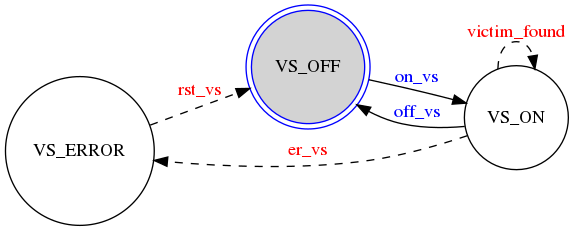
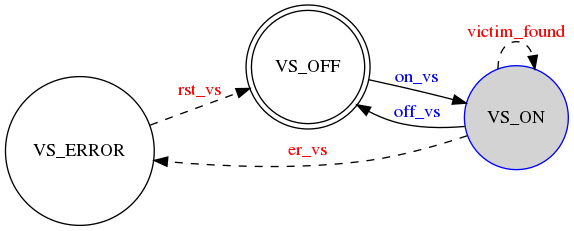
gas and victim interferance fixed

Changed region(s): [[0.4146, 0.0, 0.6516, 0.5758], [0.7997, 0.2727, 1.0, 0.7576]]

diff --git a/src/quadrotor/quadrotor_control_system/src/maneuvers.py b/src/quadrotor/quadrotor_control_system/src/maneuvers.py
@@ -33,8 +33,9 @@ from hector_moveit_exploration.msg import ExecuteDroneExplorationAction, Execute
 from hector_uav_msgs.srv import EnableMotors, EnableMotorsRequest
 
 # For teleoperation
-from sensor_msgs.msg import Joy
+from sensor_msgs.msg import Joy, Range
 from nav_msgs.msg import Odometry
+
 
 ########################################################################
 class Maneuver(object):
@@ -44,6 +45,11 @@ class Maneuver(object):
         self.suspending = False   
         self.trajectory_client = SimpleActionClient("approach_server", ExecuteDroneApproachAction)
         self.trajectory_client.wait_for_server()
+
+        # Subscribe to sonar_height
+        rospy.Subscriber("sonar_height", Range, self.sonar_callback, queue_size=10)
+        self.sonar_me = Condition()
+        self.current_height = None
 
         self.pub = rospy.Publisher("/{}/maneuvers/out".format(name), events_message, queue_size=10)         # Publisher object
         self.msg = events_message()                                                                         # Message object
@@ -55,7 +61,10 @@ class Maneuver(object):
         dest = ExecuteDroneApproachGoal()
         dest.goal.position.x = x                    # Desired x position
         dest.goal.position.y = y                    # Desired y position
-        dest.goal.position.z = z                    # Desired z position
+
+        self.sonar_me.acquire()
+        dest.goal.position.z = z + self.current_height              # Desired z position
+        self.sonar_me.release()
 
         # Convert desired angle
         q = quaternion_from_euler(0,0,theta,'ryxz')
@@ -74,6 +83,14 @@ class Maneuver(object):
             return "susp"                                       # Client cancel the motion
         else:
             return "error"                                      # The server aborted the motion
+
+    def sonar_callback(self,msg):
+        '''
+            Function to update drone height
+        '''
+        self.sonar_me.acquire()
+        self.current_height = msg.range
+        self.sonar_me.release()
 
 ################################################################################################################################################
 class approach(Maneuver):

diff --git a/src/quadrotor/hector_moveit/hector_moveit_exploration/src/Explorer.cpp b/src/quadrotor/hector_moveit/hector_moveit_exploration/src/Explorer.cpp
@@ -61,7 +61,7 @@ void Quadrotor::findFrontier()
         octomap::OcTree* current_map = (octomap::OcTree*)octomap_msgs::msgToMap(octomap);
         
         double resolution = current_map->getResolution();
-
+        
         std::vector<std::pair<double, geometry_msgs::Pose> > candidate_frontiers;
         for(octomap::OcTree::leaf_iterator n = current_map->begin_leafs(current_map->getTreeDepth()); n != current_map->end_leafs(); ++n)
         {
@@ -76,7 +76,7 @@ void Quadrotor::findFrontier()
                 // Check whether very close point is discovered previously
                 bool already_explored = false;
                 for(auto a : explored){
-                    if(fabs(x_cur - a.position.x) < 2.0 && fabs(y_cur - a.position.y) < 2.0 && fabs(z_cur - a.position.z) < 2.0){
+                    if((fabs(x_cur - a.position.x) < 8.0) && (fabs(y_cur - a.position.y) < 8.0) && (fabs(z_cur - a.position.z) < 15.0)){
                         already_explored = true;
                         break;
                     }
@@ -325,6 +325,14 @@ void Quadrotor::run(const hector_moveit_exploration::ExecuteDroneExplorationGoal
             }
         }
         if(invalid) continue;
+        
+        // ROS_ERROR("\n\nALREADY EXPLORED POINTS");
+        // for(auto a : explored){
+        //     ROS_ERROR_STREAM(a);
+        // }
+
+        // ROS_ERROR("\n\nNEXT POINTS");
+        // ROS_ERROR_STREAM(_goal);
         
         success = go(_goal);
         if(!success) invalid_poses.push_back(_goal);

diff --git a/src/task_dispatcher/src/DFS.py b/src/task_dispatcher/src/DFS.py
@@ -17,6 +17,9 @@ class DFS(object):
         self.tasks = tasks                      # Set of tasks to be assigned to robots
         self.nodes_count = 1
 
+        print(robots_info)
+        print(tasks)
+
         self.__buildTree(self.robots, self.tasks,'root')
         self.search_tree.printTree()
 
@@ -33,10 +36,10 @@ class DFS(object):
                     robot_enabled = True        # Variable to verify if the robot fit to the task
 
                     # Verify if the robot can apply required sensors
-                    if ((tasks.loc[t,'vs'] == 'on') and (robots.loc[r,'vs'] == 'nok')):
+                    if tasks.loc[t,'vs'] and (robots.loc[r,'vs'] == 'nok'):
                         robot_enabled = False
 
-                    if ((tasks.loc[t,'gs'] == 'on') and (robots.loc[r,'gs'] == 'nok')):
+                    if tasks.loc[t,'gs'] and (robots.loc[r,'gs'] == 'nok'):
                         robot_enabled = False
 
                     # Verify if the robot is the type required

diff --git a/src/payloads/src/gas_sensor.py b/src/payloads/src/gas_sensor.py
@@ -21,8 +21,8 @@ class GasSensor(object):
         self.__update_radius = 1.5                                                                      # Radius in wich the robot does not republish gas leak
         self.__robot_name = rospy.get_param('robot_name', default='robot')
         self.__gas_models = rospy.get_param('gas_models', default=[])
-        self.__sensor_range = rospy.get_param('sensor_range', default=1.0)
-        self.__sensor_update_rate = rospy.get_param('sensor_update_rate', default=1.0)
+        self.__sensor_range = rospy.get_param('gs_sensor_range', default=1.0)
+        self.__sensor_update_rate = rospy.get_param('gs_sensor_update_rate', default=1.0)
 
         self.__models_service = rospy.ServiceProxy('/gazebo/get_model_state', GetModelState)             # Get model service from Gazebo
         self.__models_service.wait_for_service()

diff --git a/src/payloads/src/victim_recognition_system.py b/src/payloads/src/victim_recognition_system.py
@@ -16,8 +16,8 @@ class VictimSensor(object):
         # Get parameters
         self.__robot_name = rospy.get_param('robot_name', default='robot')
         self.__victims = rospy.get_param('victims_models', default=[])
-        self.__sensor_range = rospy.get_param('sensor_range', default=1.0)
-        self.__sensor_update_rate = rospy.get_param('sensor_update_rate', default=1.0)
+        self.__sensor_range = rospy.get_param('vs_sensor_range', default=1.0)
+        self.__sensor_update_rate = rospy.get_param('vs_sensor_update_rate', default=1.0)
 
         self.__models_service = rospy.ServiceProxy('/gazebo/get_model_state', GetModelState)                         # Get model service from Gazebo
         self.__models_service.wait_for_service()

diff --git a/src/quadrotor/trajectory_action_pkg/src/approach.py b/src/quadrotor/trajectory_action_pkg/src/approach.py
@@ -4,6 +4,7 @@ import copy
 from numpy import arange
 from math import sqrt, atan2
 from threading import Condition
+from random import random as rd
 
 import rospy
 import roslib
@@ -159,6 +160,8 @@ class Approach(object):
         trials = 0
         while trials < 5:
             rospy.logwarn("Attempt {}".format(trials+1))
+            if(trials > 1):
+                self.target.position.z += 2*rd() - 1
             result = self.go(self.target)
             if (result == 'replan') or (result == 'no_plan'):
                 trials += 1
